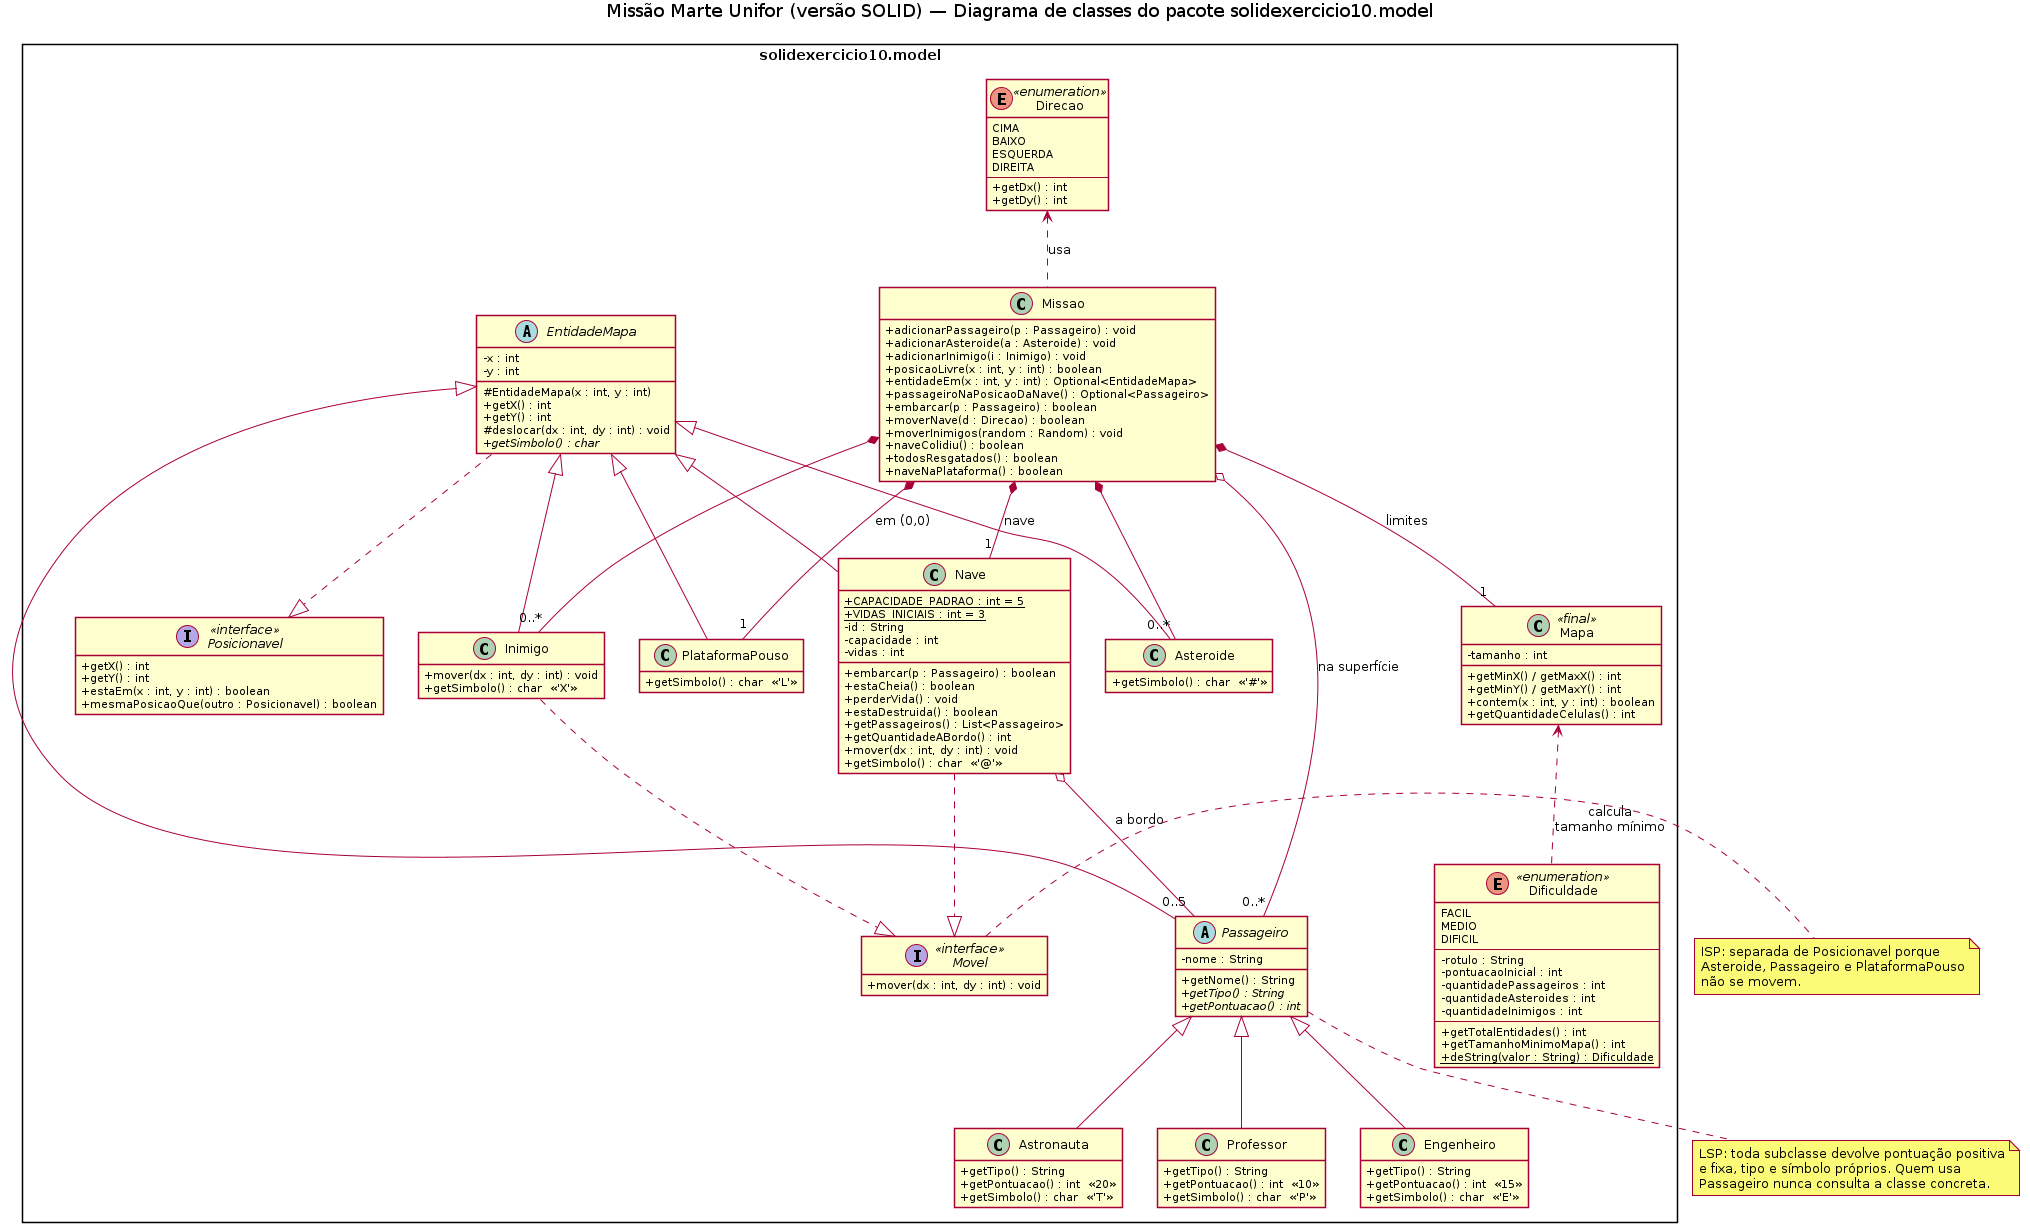
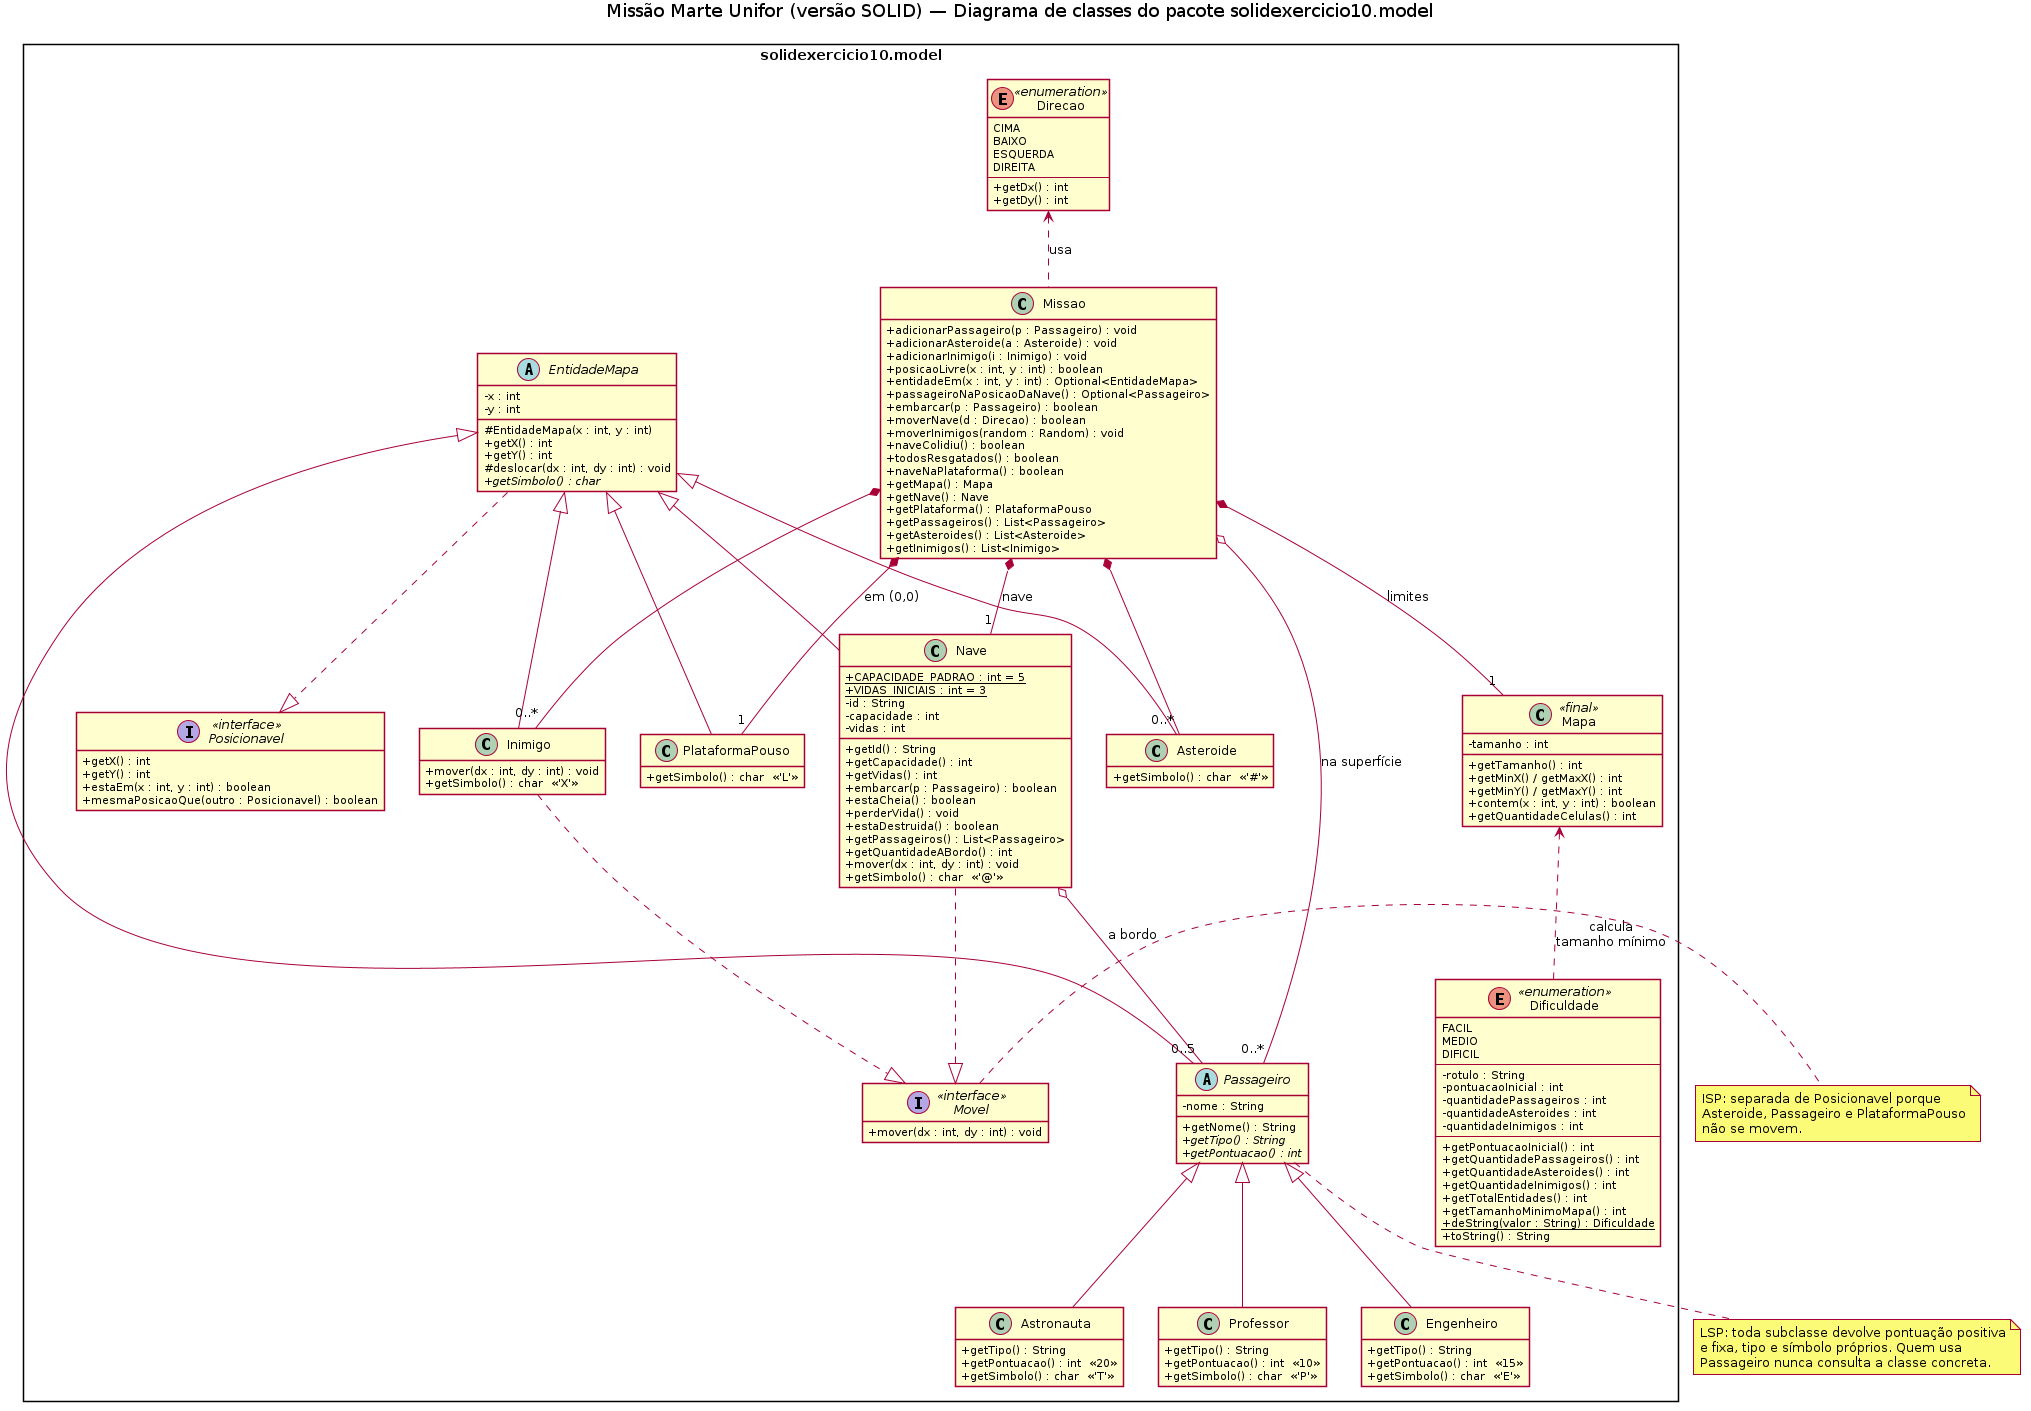
revisão final: conferência dos requisitos da atividade
- instruções de compilação com -encoding UTF-8 (javac falhava no Windows com JDK 17)
- diagrama de classes com todos os métodos públicos do model
- REVISAO-SOLID: campo 'Impacto' em todas as observações e prioridade
  em cada decisão da qual discordo

Claude-Session: https://claude.ai/code/session_01FzAroEgWvJV9tah8cYE9A9

diff --git a/test/solidexercicio10/ExecutarTestes.java b/test/solidexercicio10/ExecutarTestes.java
@@ -7,7 +7,7 @@ import java.util.Map;
  * Executa todos os testes automatizados.
  *
  * <pre>
- * javac -d out $(find src/solidexercicio10 test/solidexercicio10 -name "*.java")
+ * javac -encoding UTF-8 -d out $(find src/solidexercicio10 test/solidexercicio10 -name "*.java")
  * java -cp out solidexercicio10.ExecutarTestes
  * </pre>
  */

diff --git a/REVISAO-SOLID.md b/REVISAO-SOLID.md
@@ -10,8 +10,8 @@ Cada observação indica se foi **resolvida** na minha versão ou se continua **
 
 ## Como validei a solução
 
-- [x] compilação do código inicial — `javac -d out src/exercicio10/*.java` (sem erros)
-- [x] compilação da versão refatorada — `javac -Xlint:all -d out $(find src/solidexercicio10 -name "*.java")` (sem erros e sem avisos)
+- [x] compilação do código inicial — `javac -encoding UTF-8 -d out src/exercicio10/*.java` (sem erros)
+- [x] compilação da versão refatorada — `javac -encoding UTF-8 -Xlint:all -d out $(find src/solidexercicio10 -name "*.java")` (sem erros e sem avisos)
 - [x] início de uma missão — [evidência 03](docs/evidencias/03-refatorado-vitoria.txt)
 - [x] movimentação, embarque e conclusão da missão — [evidência 03](docs/evidencias/03-refatorado-vitoria.txt) (vitória com 5 passageiros e 70 pontos)
 - [x] consulta e reset do ranking — [evidência 04](docs/evidencias/04-refatorado-ranking-e-reset.txt) (inclui reset cancelado e reset com arquivo inexistente)
@@ -252,6 +252,8 @@ Prioridade: alta
 Local: exercicio10/Main.lerLinha / tutorial — JogoService.lerLinha
 Princípio relacionado: — (robustez)
 Observação: fim de entrada (Ctrl+D) causa NoSuchElementException em ambos.
+Impacto para manutenção, testes ou evolução: o jogo termina com erro em vez de sair
+  normalmente, e testes com entrada roteirizada quebram se o roteiro for mais curto.
 Proposta: Terminal.lerLinha devolve Optional; fim de entrada aborta a partida e sai do
   menu normalmente. — RESOLVIDO (evidência 07)
 Prioridade: média
@@ -262,6 +264,8 @@ Local: exercicio10/Main.parseRankingJson
 Princípio relacionado: SRP (formato separado do acesso a disco)
 Observação: o parser divide o texto por vírgulas; um piloto chamado "Silva, J." perde o
   registro ao recarregar. Um arquivo corrompido é sobrescrito sem aviso.
+Impacto para manutenção, testes ou evolução: perda silenciosa de dados do ranking, que é
+  justamente a parte persistente do jogo.
 Proposta: RankingJson com leitor que respeita aspas e escapes; gravação atômica
   (temporário + move) e cópia .corrompido. — RESOLVIDO
 Prioridade: média
@@ -272,6 +276,8 @@ Local: repository/JsonRankingRepository.salvar
 Princípio relacionado: SRP
 Observação: o arquivo guarda todas as vitórias que entraram no Top 5 no momento em que
   foram jogadas; o corte em 5 é feito só na leitura, então o arquivo cresce aos poucos.
+Impacto para manutenção, testes ou evolução: desprezível no uso real (uma linha por
+  vitória que entra no Top 5), mas o arquivo deixa de refletir exatamente o que é exibido.
 Proposta: o serviço poder pedir ao repositório para manter só os N melhores
   (ex.: método manterMelhores(int)), ou aceitar o crescimento, que é insignificante aqui.
   — PENDENTE
@@ -283,6 +289,8 @@ Local: projeto (build e testes)
 Princípio relacionado: —
 Observação: sem Maven/Gradle, os testes usam um mini-framework próprio (Verifica) e o JSON
   usa um parser próprio.
+Impacto para manutenção, testes ou evolução: mais código próprio para manter; sem
+  relatório de cobertura nem integração com IDE/CI que o JUnit oferece.
 Proposta: numa próxima versão, adotar Maven + JUnit 5 e uma biblioteca JSON (Gson). Mantive
   sem dependências porque a disciplina pede compilação direta com javac. — PENDENTE
 Prioridade: média
@@ -300,18 +308,20 @@ Prioridade: média
 
 ## Decisões com as quais não concordo (e o que fiz)
 
-| # | Decisão do tutorial | Por que discordo | O que fiz |
-|---|---|---|---|
-| 1 | Ranking gravado como texto `nome\|pontos\|...` | A atividade anterior exigia `ranking.json`; o formato de texto quebra se o nome tiver `\|` e não lê o arquivo do exercício 10. A refatoração deveria preservar o comportamento. | JSON com as mesmas chaves do original |
-| 2 | `JogoService` com `Scanner`, `System.out` e menu | É a mesma mistura da `Main` original, apenas com outro nome; impede testar as regras. | `Partida` + `JogoService` + `JogoConsole` |
-| 3 | Pontuações Professor 15, Engenheiro 20, Astronauta 10 | Altera a regra do jogo sem justificativa (original: 10/15/20). Uma refatoração não deve mudar comportamento. | Mantive 10/15/20, com teste |
-| 4 | `moverInimigos` com `Math.random()`, diagonais e sem limites | Inimigos saem do mapa e somem; o movimento não é reproduzível em teste. | Movimento em 4 direções, limitado pelo `Mapa`, com `Random` injetado (teste de 10.000 turnos) |
-| 5 | Reset do ranking sem confirmação | Regressão em relação ao original, que pedia (s/n). | Confirmação mantida |
-| 6 | Implementação chamada `RankingService` no pacote `repository` | O nome sugere camada de serviço e confunde com `JogoService`. | `JsonRankingRepository` |
-| 7 | `EntidadeMapa` com `x`/`y` `protected` | Qualquer subclasse altera a posição livremente (encapsulamento fraco). | Campos `private` + `protected deslocar()` |
-| 8 | Capacidade da nave = quantidade de passageiros da dificuldade; Difícil com 6 passageiros | Muda duas regras do original (capacidade fixa 5; Difícil com 5). | Capacidade 5 e quantidades do original, centralizadas no enum |
-| 9 | Eixo Y invertido (`w` soma 1 e o mapa é desenhado de cima para baixo a partir de `maxY`) | É coerente, mas muda as coordenadas mostradas ao jogador em relação ao original sem ganho. | Mantive o eixo original (`w` diminui Y) |
-| 10 | `MapaRenderer` com sobrecargas que fixam o mapa em -2..2 e `Nave.getSimbolo()` = `'N'` enquanto a tela desenha `'@'` | Código que não é usado ou que contradiz o comportamento real. | Um único `desenhar`, e o símbolo vem sempre da entidade |
+Todas foram corrigidas na minha versão; a prioridade indica o quanto cada ponto afetava o jogo (alta = mudava comportamento ou impedia testes).
+
+| # | Decisão do tutorial | Por que discordo | O que fiz | Prioridade |
+|---|---|---|---|---|
+| 1 | Ranking gravado como texto `nome\|pontos\|...` | A atividade anterior exigia `ranking.json`; o formato de texto quebra se o nome tiver `\|` e não lê o arquivo do exercício 10. A refatoração deveria preservar o comportamento. | JSON com as mesmas chaves do original | alta |
+| 2 | `JogoService` com `Scanner`, `System.out` e menu | É a mesma mistura da `Main` original, apenas com outro nome; impede testar as regras. | `Partida` + `JogoService` + `JogoConsole` | alta |
+| 3 | Pontuações Professor 15, Engenheiro 20, Astronauta 10 | Altera a regra do jogo sem justificativa (original: 10/15/20). Uma refatoração não deve mudar comportamento. | Mantive 10/15/20, com teste | alta |
+| 4 | `moverInimigos` com `Math.random()`, diagonais e sem limites | Inimigos saem do mapa e somem; o movimento não é reproduzível em teste. | Movimento em 4 direções, limitado pelo `Mapa`, com `Random` injetado (teste de 10.000 turnos) | média |
+| 5 | Reset do ranking sem confirmação | Regressão em relação ao original, que pedia (s/n). | Confirmação mantida | média |
+| 6 | Implementação chamada `RankingService` no pacote `repository` | O nome sugere camada de serviço e confunde com `JogoService`. | `JsonRankingRepository` | baixa |
+| 7 | `EntidadeMapa` com `x`/`y` `protected` | Qualquer subclasse altera a posição livremente (encapsulamento fraco). | Campos `private` + `protected deslocar()` | média |
+| 8 | Capacidade da nave = quantidade de passageiros da dificuldade; Difícil com 6 passageiros | Muda duas regras do original (capacidade fixa 5; Difícil com 5). | Capacidade 5 e quantidades do original, centralizadas no enum | média |
+| 9 | Eixo Y invertido (`w` soma 1 e o mapa é desenhado de cima para baixo a partir de `maxY`) | É coerente, mas muda as coordenadas mostradas ao jogador em relação ao original sem ganho. | Mantive o eixo original (`w` diminui Y) | baixa |
+| 10 | `MapaRenderer` com sobrecargas que fixam o mapa em -2..2 e `Nave.getSimbolo()` = `'N'` enquanto a tela desenha `'@'` | Código que não é usado ou que contradiz o comportamento real. | Um único `desenhar`, e o símbolo vem sempre da entidade | baixa |
 
 ### A arquitetura está adequada ao tamanho do projeto?
 

diff --git a/README.md b/README.md
@@ -25,11 +25,11 @@ Requisito: **JDK 17 ou superior** (usa `switch` com `->` e `List.toList()`). Tod
 
 ```bash
 # versão original (para comparação)
-javac -d out src/exercicio10/*.java
+javac -encoding UTF-8 -d out src/exercicio10/*.java
 java -cp out exercicio10.Main
 
 # versão refatorada
-javac -d out $(find src/solidexercicio10 -name "*.java")
+javac -encoding UTF-8 -d out $(find src/solidexercicio10 -name "*.java")
 java -cp out solidexercicio10.Main
 
 # mesma partida sempre (útil para demonstração): semente fixa
@@ -39,19 +39,21 @@ java -cp out solidexercicio10.Main --seed 5
 ### Windows (PowerShell)
 
 ```powershell
-javac -d out src/exercicio10/*.java
+javac -encoding UTF-8 -d out src/exercicio10/*.java
 java -cp out exercicio10.Main
 
-javac -d out (Get-ChildItem -Recurse -Filter *.java src/solidexercicio10 | ForEach-Object FullName)
+javac -encoding UTF-8 -d out (Get-ChildItem -Recurse -Filter *.java src/solidexercicio10 | ForEach-Object FullName)
 java -cp out solidexercicio10.Main
 ```
 
+> O `-encoding UTF-8` é necessário no Windows com JDK 17: sem ele o `javac` usa o padrão `windows-1252` e **falha** ao compilar os emojis das mensagens (erro *unmappable character*). No Linux e no JDK 18+ ele é inofensivo.
+>
 > Se os acentos aparecerem como `?` no Windows, execute `chcp 65001` antes ou use `java -Dstdout.encoding=UTF-8 ...`.
 
 ### Testes automatizados (sem JUnit, sem dependências)
 
 ```bash
-javac -d out $(find src/solidexercicio10 test/solidexercicio10 -name "*.java")
+javac -encoding UTF-8 -d out $(find src/solidexercicio10 test/solidexercicio10 -name "*.java")
 java -cp out solidexercicio10.ExecutarTestes
 ```
 

diff --git a/docs/ROTEIRO-APRESENTACAO.md b/docs/ROTEIRO-APRESENTACAO.md
@@ -1,6 +1,6 @@
 # Roteiro da apresentação (≈ 10 min)
 
-Preparação: compilar as duas versões antes (`javac -d out src/exercicio10/*.java` e `javac -d out $(find src/solidexercicio10 test/solidexercicio10 -name "*.java")`) e apagar `ranking-solid-exercicio10.json`.
+Preparação: compilar as duas versões antes (`javac -encoding UTF-8 -d out src/exercicio10/*.java` e `javac -encoding UTF-8 -d out $(find src/solidexercicio10 test/solidexercicio10 -name "*.java")`) e apagar `ranking-solid-exercicio10.json`.
 
 | Tempo | Tópico | O que mostrar |
 |---|---|---|

diff --git a/docs/ANALISE-INICIAL.md b/docs/ANALISE-INICIAL.md
@@ -3,7 +3,7 @@
 Análise feita **antes** da refatoração, a partir da compilação e execução do jogo original.
 
 ```bash
-javac -d out src/exercicio10/*.java
+javac -encoding UTF-8 -d out src/exercicio10/*.java
 java -cp out exercicio10.Main
 ```
 
